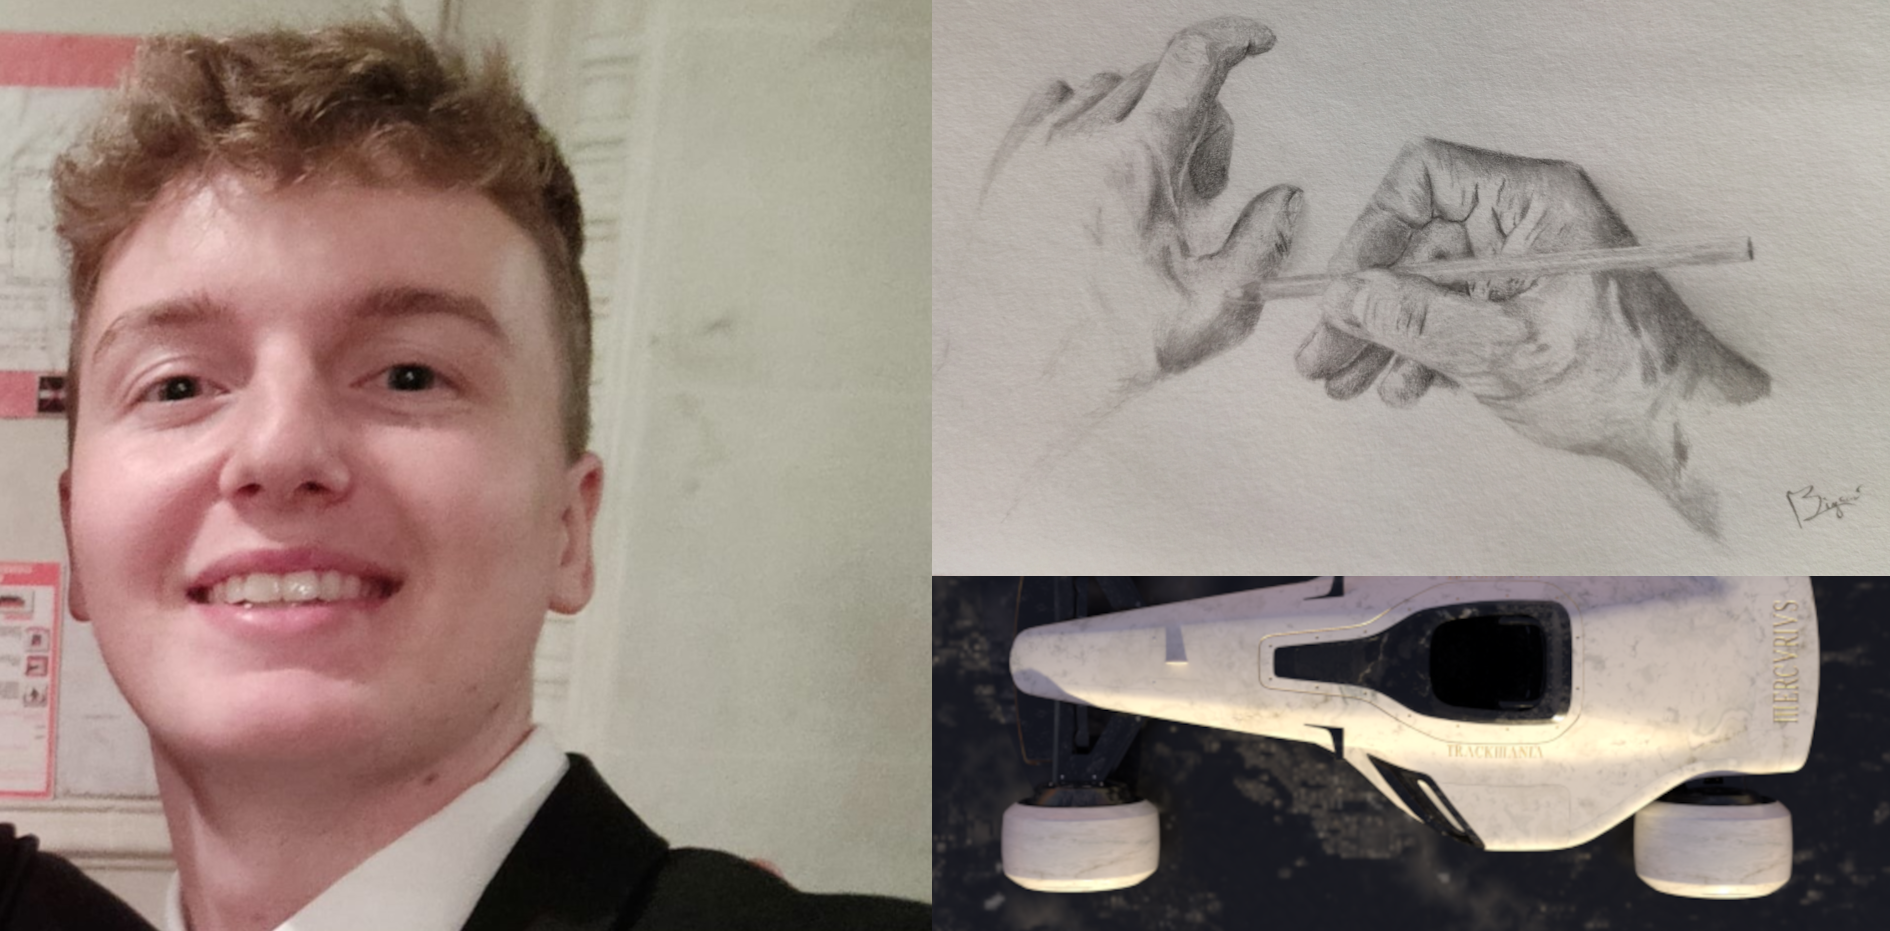
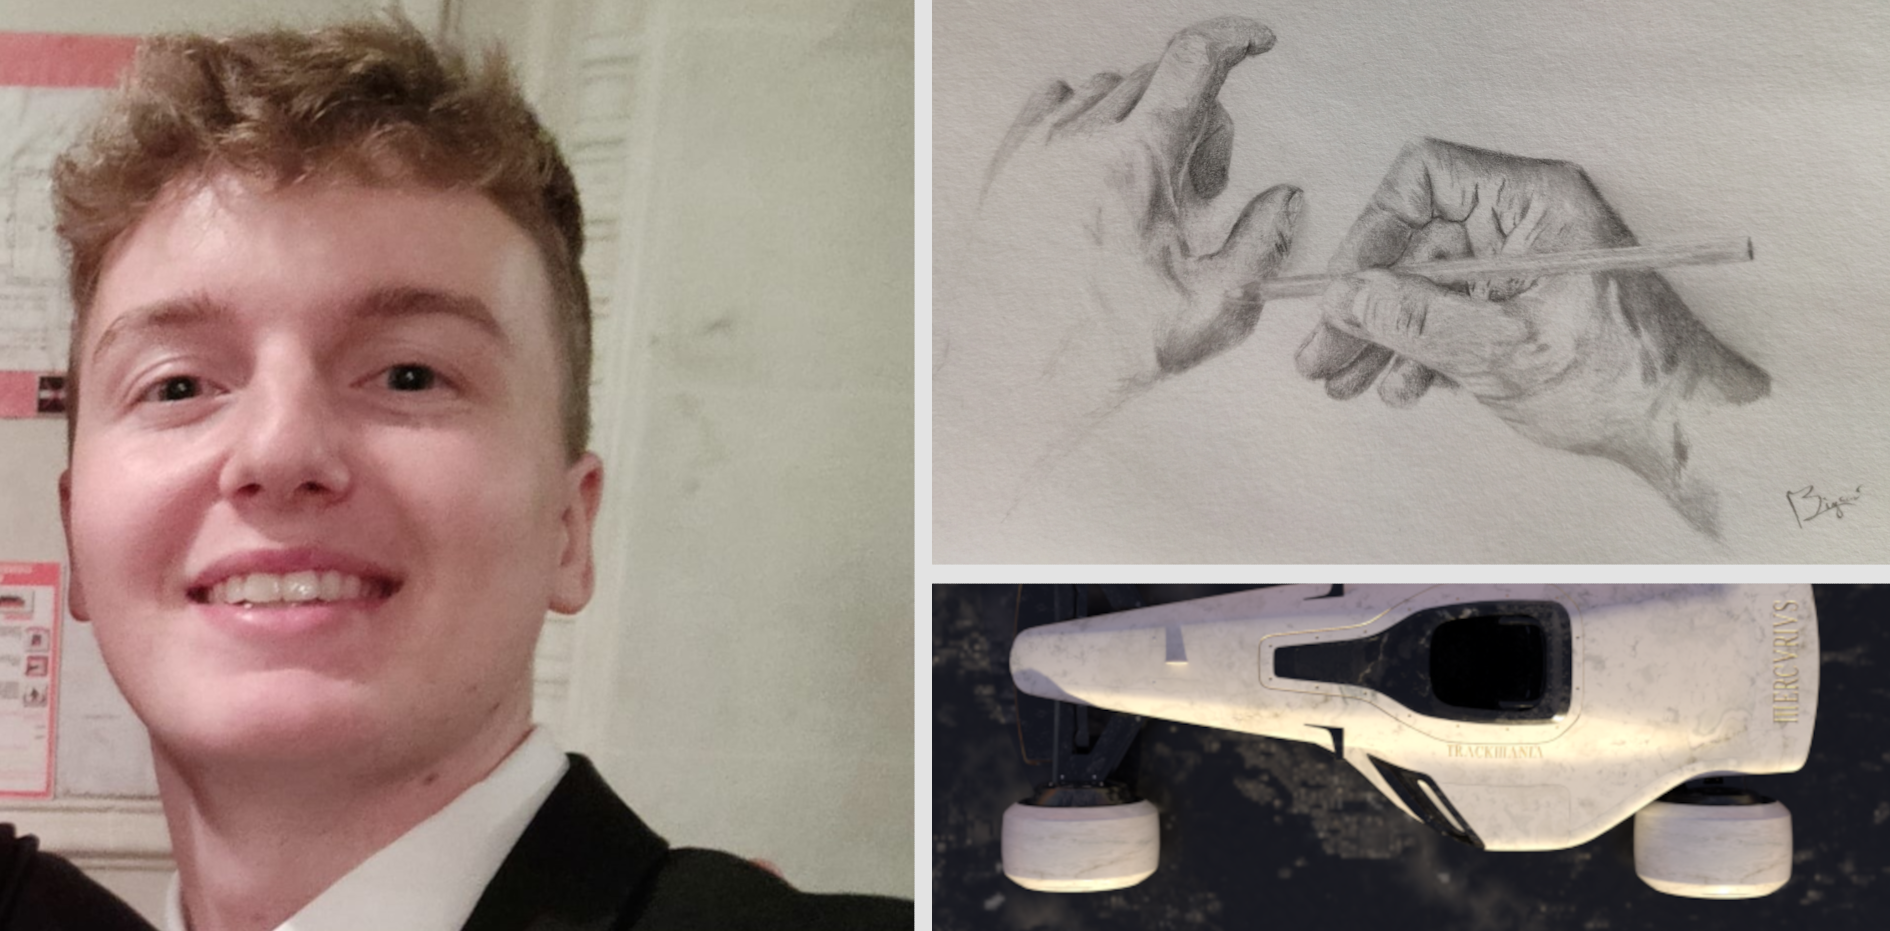
page 2 and photo

Changed region(s): [[0.4683, 0.0, 1.0, 1.0]]

diff --git a/stylepage.css b/stylepage.css
@@ -66,14 +66,19 @@ a{
 table{
 	border-collapse: collapse;
 	background-color: white;
+	margin-left: 9%;
 }
 td{
+	font-family: 'FuturaLight', Arial;
 	padding-right: 30px;
 	padding-left: 30px;
-	border: 1px solid black;
 }
 td:hover{
-	background-color: #E3E3E3;
+	font-family: 'FuturaBook', Arial;
+	border-bottom: 2px solid #4285F4;
+}
+td:hover a{
+	color: #4285F4;
 }
 
 .gatienDef{
@@ -85,6 +90,7 @@ td:hover{
 
 .asideSection{
 	float: right;
+	margin-top: -5%;
 	border: 2px solid grey;
 	border-radius: 8px;
 	background: url("photoprofilcarre.jpg") fixed no-repeat top right;
@@ -93,10 +99,13 @@ td:hover{
 }
 .titreAside{
 	font-family: 'FuturaBook', Arial;
+	padding-left: 12px;
+	margin-bottom: -10px;
 }
 .sousTitreAside{
 	font-family: 'FuturaLight', Arial;
 	color: grey;
+	padding-left: 12px;
 }
 .photoProfil{
 	width: 500px;
@@ -110,10 +119,16 @@ td:hover{
 	font-style: italic;
 }
 .asideSection p{
-	padding-left: 5px;
-	padding-right: 5px;
+	padding-left: 12px;
 }
 
+.barHr{
+	width: 85%;
+	height: 1px;
+	background-color: #E3E3E3;
+	border-style: inset; 
+	border:  none;
+}
 @font-face{
 	font-family: 'FuturaLight';
 	src:  url('FuturaPTLight.otf');

diff --git a/pageprofil.html b/pageprofil.html
@@ -30,7 +30,11 @@
 		<img src="albumphotos.png" class="photoProfil">
 		<h2 class="titreAside">Web Developer</h2>
 		<h3 class="sousTitreAside">Full Stack</h3>
-		<p class="textAside">Etudiant en Bac+2 Web Developer Full Stack à</p><p class="textSchoolAside">Doranco - Ecole Supérieure des Technologies Créatives</p>
+		<p class="textAside">Etudiant en Bac+2 Web Developer Full Stack à <br><span class="textSchoolAside">Doranco - Ecole Supérieure des Technologies Créatives</span></p>
+		<hr class="barHr">
+		<p class="textAside">En recherche d'alternance pour un poste de Développeur Web</p>
+		<hr class="barHr">
+		<p class="textAside">Création de sites web en HTML, CSS, Javascript, PHP et MySQL</p>
 	</aside>
 	<article></article>
 	</section>
